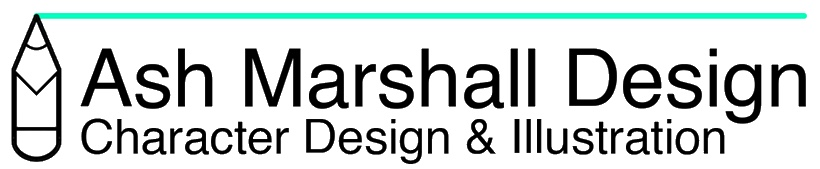
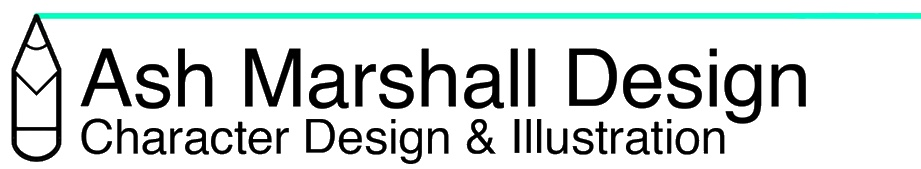
remove bootstrap navbar and create custom html and css for navbar and header, add hero image with animation and create 2 secions, about me and education, add basic footer to style

Changed region(s): [[0.0, 0.0592, 1.0, 0.9763], [0.9756, 0.0592, 1.0, 0.1183]]

diff --git a/assets/css/style.css b/assets/css/style.css
@@ -2,20 +2,129 @@ body {
     font-family: 'Roboto', sans-serif;
 }
 
-.bg-color-name-prof {
-    background-color: #fff;
-
 }
 
 header {
-    margin: 0;
+  overflow: hidden;
 }
 
 .logo {
-    background: url("../images/AMdesign.jpg");
-    background-position: left top;
-    background-repeat: no-repeat;
-    background-size: 75%;
-    min-height: 360px;
+  background: url("../images/AMdesign.jpg");
+  background-repeat: no-repeat;
+  background-size: 95%;
+  display: block;
+  background-position: right;
+  margin-top: 8px;
+  height: 100px;
+  padding: 0;
 }
 
+.header-style {
+  background-color: #02fecc;
+  padding: 10px;
+  display: block;
+  height: 0.12cm;
+  margin-top: 1em;
+  padding: 0;
+}
+
+#nav-bar {
+  margin-top: 1em;
+  padding: 0;
+}
+
+/* code from w3s but modified to suit */
+
+ul {
+  list-style-type: none;
+  margin: 0;
+  padding: 0;
+  overflow: hidden;
+  background-color: #02fecc;
+}
+
+li {
+  display: inline;
+  float: right;
+}
+
+li a {
+  display: block;
+  color: black;
+  text-align: center;
+  padding: 14px 16px;
+  text-decoration: none;
+}
+
+li a:hover {
+  background-color: #fff;
+}
+
+/* end of code from w3s*/
+
+#hero-image {
+  height: 800px;
+  width: 100%;
+  background: url("../images/monsterhero.jpg") no-repeat center center;
+  background-size: 60%;
+
+  animation-name: hero-zoom;
+  animation-duration: 5s;
+  animation-fill-mode: forwards;
+  
+}
+
+#hero-outer {
+  height: 800px;
+  width: 100%;
+  overflow: hidden;
+}
+
+@keyframes hero-zoom {
+    from{
+        transform: scale(1);
+    }
+    to{
+        transform: scale(1.1);
+    }
+}
+
+#circle {
+  width: 300px;
+  height: 300px;
+  padding: 30px;
+  border-style: solid;
+  border-color: #02fecc;
+  border-width: 1px;
+  border-radius: 50%;
+  margin: 0 auto;
+
+.about-photo {
+  width: 50%;
+  margin: 0 auto;
+  float: right;
+}
+
+.about-info {
+  width: 50%;
+  margin: 0 auto;
+  float: left;
+}
+  
+.my-photo {
+  height: 100%;
+  border-radius: 50%;
+  background: url("../images/my-photo.jpg") no-repeat center center;
+}
+
+
+
+.footer {
+  position: fixed;
+  left: 0;
+  bottom: 0;
+  width: 100%;
+  background-color: #02fecc;
+  color: white;
+  text-align: center;
+}

diff --git a/index.html b/index.html
@@ -27,39 +27,47 @@
     <header>
       <div class="row">
         <a href="index.html" class="col-md-4 logo"> </a>
-        <div class="col-md-8">
-          <nav class="navbar navbar-expand-lg">
-            <div class="container-fluid">
-                <ul class="navbar-nav">
-                  <li class="nav-item">
-                    <a class="nav-link active" aria-current="page" href="#"
-                      >Home</a
-                    >
-                  </li>
-                  <li class="nav-item">
-                    <a class="nav-link" href="#">Gallery</a>
-                  </li>
-                  <li class="nav-item">
-                    <a class="nav-link" href="#">Contact</a>
-                  </li>
-                  </li>
-                </ul>
-              </div>
-            </div>
-          </nav>
+        <div class="header-style col-md-4"></div>
+        <nav id="nav-bar" class="col-md-4">
+        <ul>
+          <li><a href="index.html">Contact</a></li>
+          <li><a href="#">Gallery</a></li>
+          <li><a href="#">Home</a></li>
+        </ul>
+        </nav>
         </div>
-      </div>
     </header>
-    <section>
-        <div class="row bg-color-name-prof">
-            <div class="col-md-4">
-                <h1 class="name">
-                    Ash Marshall
-                </h1>
-                    <h2 class="profession"> Character Design & Illustration</h2>
-            </div>
+    <section id="hero-outer">
+        <div id="hero-image">
         </div>
     </section>
-    <footer></footer>
+    <section>
+      <div class="about-photo">
+        <div class="circle-photo">
+        <div class="my-photo">
+          <div class="about-info">
+            About me to add
+          </div>
+        </div>
+      </div>
+      </div>
+    </section>
+    <section>
+      <div class="container">
+        <div class="row">
+      <ul>
+        <li>- 2018-2019</li>
+        <li>- 2019-2020</li>
+        <li>- 2020-2021</li>
+      </ul>
+      </div>
+      </div>
+    </section>
+    <footer>
+      <div class="footer">
+        <p>Footer</p>
+      </div>
+    </footer>
   </body>
 </html>
+
